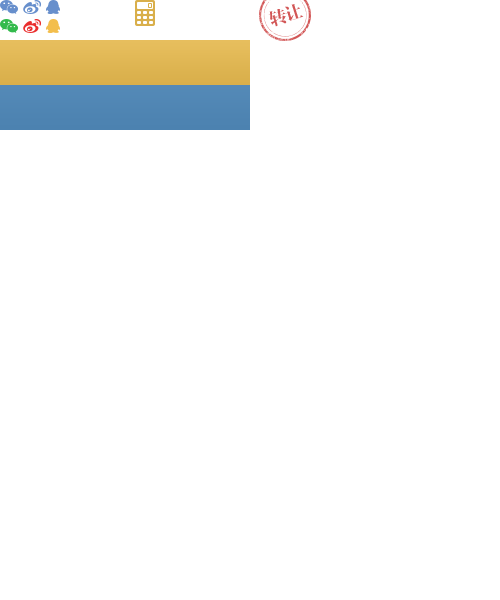
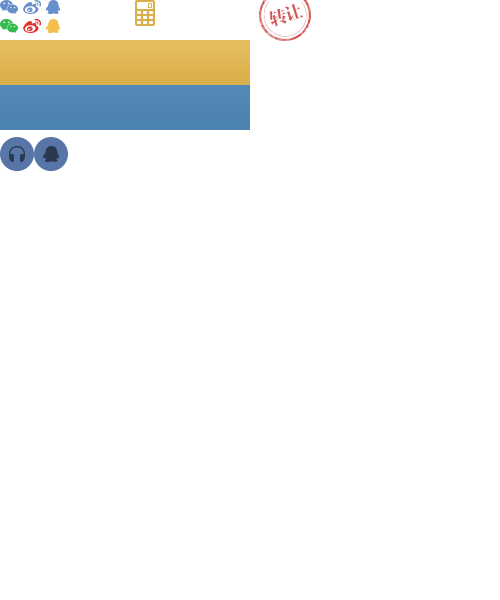
coding

Changed region(s): [[0.0, 0.21, 0.15, 0.3]]

diff --git a/index.html b/index.html
@@ -67,22 +67,22 @@
     <div class="advantage">
         <div class="advantage-wrap">
             <div class="advantage-b">
-                <div class="advantage-b-1 advantage-b-icon1"></div>
+                <div class="advantage-b-1"><img src="img/ad-1.jpg" /></div>
                 <div class="advantage-b-2">8%-12%高收益</div>
                 <div class="advantage-b-3">低门槛<br/>高收益<br/>年化收益最高达12%</div>
             </div>
             <div class="advantage-b">
-                <div class="advantage-b-1 advantage-b-icon2"></div>
+                <div class="advantage-b-1"><img src="img/ad-2.jpg" /></div>
                 <div class="advantage-b-2">100%本息保障</div>
                 <div class="advantage-b-3">25%风险备用金<br/>引入大型国企背景担保公司</div>
             </div>
             <div class="advantage-b">
-                <div class="advantage-b-1 advantage-b-icon3"></div>
+                <div class="advantage-b-1"><img src="img/ad-3.jpg" /></div>
                 <div class="advantage-b-2">风控体系</div>
                 <div class="advantage-b-3">实地考察、超值抵押<br/>发布项目小额短期<br/>平台交易实时监控</div>
             </div>
             <div class="advantage-b">
-                <div class="advantage-b-1 advantage-b-icon4"></div>
+                <div class="advantage-b-1"><img src="img/ad-4.jpg" /></div>
                 <div class="advantage-b-2">资金安全</div>
                 <div class="advantage-b-3">第三方支付平台全程托管<br/>资金全程监控</div>
             </div>
@@ -131,7 +131,7 @@
                     <span class="pro-li-3"><em class="pro-li-em1">12.6</em>&nbsp;%</span>
                     <span class="pro-li-7"><em class="pro-li-em3">750,000</em>&nbsp;元<br /><em class="pro-li-em2">645,000</em>&nbsp;元</span>
                     <span class="pro-li-3"><em class="pro-li-em2">36</em>&nbsp;个月</span>
-                    <span class="pro-li-5"></span>
+                    <span class="pro-li-5 progress" beginDate="1433043951709" percentage="30"></span>
                     <span class="pro-li-6"><a href="#" class="pro-go">立即投资</a></span>
                     <span class="pro-li-body-r"></span>
                 </li>
@@ -143,7 +143,7 @@
                     <span class="pro-li-3"><em class="pro-li-em1">11</em>&nbsp;%</span>
                     <span class="pro-li-7"><em class="pro-li-em3">120,000</em>&nbsp;元<br /><em class="pro-li-em2">115,000</em>&nbsp;元</span>
                     <span class="pro-li-3"><em class="pro-li-em2">3</em>&nbsp;个月</span>
-                    <span class="pro-li-5"></span>
+                    <span class="pro-li-5 progress" beginDate="1433043951709" percentage="40"></span>
                     <span class="pro-li-6"><a href="#" class="pro-go">立即投资</a></span>
                     <span class="pro-li-body-r"></span>
                 </li>
@@ -155,7 +155,7 @@
                     <span class="pro-li-3"><em class="pro-li-em1">10.8</em>&nbsp;%</span>
                     <span class="pro-li-7"><em class="pro-li-em3">250,000</em>&nbsp;元<br /><em class="pro-li-em2">225,000</em>&nbsp;元</span>
                     <span class="pro-li-3"><em class="pro-li-em2">2</em>&nbsp;个月</span>
-                    <span class="pro-li-5"></span>
+                    <span class="pro-li-5 progress" beginDate="1433043951709" percentage="50"></span>
                     <span class="pro-li-6"><a href="#" class="pro-go">立即投资</a></span>
                     <span class="pro-li-body-r"></span>
                 </li>
@@ -166,7 +166,7 @@
                     <span class="pro-li-3"><em class="pro-li-em1">13.2</em>&nbsp;%</span>
                     <span class="pro-li-4"><em class="pro-li-em2">107,900</em>&nbsp;元</span>
                     <span class="pro-li-3"><em class="pro-li-em2">24</em>&nbsp;个月</span>
-                    <span class="pro-li-5"></span>
+                    <span class="pro-li-5 progress" beginDate="1433043951709" percentage="60"></span>
                     <span class="pro-li-6"><a href="#" class="pro-go">立即投资</a></span>
                     <span class="pro-li-body-r"></span>
                 </li>
@@ -177,7 +177,7 @@
                     <span class="pro-li-3"><em class="pro-li-em1">12</em>&nbsp;%</span>
                     <span class="pro-li-4"><em class="pro-li-em2">2,000,000</em>&nbsp;元</span>
                     <span class="pro-li-3"><em class="pro-li-em2">6</em>&nbsp;个月</span>
-                    <span class="pro-li-5"></span>
+                    <span class="pro-li-5 progress" beginDate="1433043951709" percentage="70"></span>
                     <span class="pro-li-6"><a href="#" class="pro-done">已满标</a></span>
                     <span class="pro-li-body-r"></span>
                 </li>
@@ -188,7 +188,7 @@
                     <span class="pro-li-3"><em class="pro-li-em1">10.4</em>&nbsp;%</span>
                     <span class="pro-li-4"><em class="pro-li-em2">130,000</em>&nbsp;元</span>
                     <span class="pro-li-3"><em class="pro-li-em2">24</em>&nbsp;个月</span>
-                    <span class="pro-li-5"></span>
+                    <span class="pro-li-5 progress" beginDate="1433043951709" percentage="80"></span>
                     <span class="pro-li-6"><a href="#" class="pro-done">已满标</a></span>
                     <span class="pro-li-body-r"></span>
                 </li>
@@ -199,26 +199,83 @@
                     <span class="pro-li-3"><em class="pro-li-em1">8</em>&nbsp;%</span>
                     <span class="pro-li-4"><em class="pro-li-em2">94,000</em>&nbsp;元</span>
                     <span class="pro-li-3"><em class="pro-li-em2">10</em>&nbsp;个月</span>
-                    <span class="pro-li-5"></span>
+                    <span class="pro-li-5 progress" beginDate="1433043951709" percentage="10"></span>
                     <span class="pro-li-6"><a href="#" class="pro-done">已满标</a></span>
                     <span class="pro-li-body-r"></span>
                 </li>
-                <li class="pro-list-body pro-list-last">
+                <li class="pro-list-body">
                     <span class="pro-li-body-l"></span>
                     <span class="pro-li-1"><a href="#">微商进货经营</a></span>
                     <span class="pro-li-2"><a href="#"></a></span>
                     <span class="pro-li-3"><em class="pro-li-em1">5.6</em>&nbsp;%</span>
                     <span class="pro-li-4"><em class="pro-li-em2">5,000</em>&nbsp;元</span>
                     <span class="pro-li-3"><em class="pro-li-em2">0.5</em>&nbsp;个月</span>
-                    <span class="pro-li-5"></span>
+                    <span class="pro-li-5 progress" beginDate="1433043951709" percentage="90"></span>
                     <span class="pro-li-6"><a href="#" class="pro-done">已满标</a></span>
                     <span class="pro-li-body-r"></span>
                 </li>
-                
+                <li class="pro-list-body pro-list-last"><a href="#">查看更多投资项目</a></li>
             </ul>
         </div>
     </div>
-    <div class="partner"></div>
+    <div class="partner">
+        <div class="partner-wrap">
+            <div class="partner-title">合作伙伴</div>
+            <ul class="partner-content">
+                <li><a href="#"><img src="img/partner1.jpg"/></a></li>
+                <li><a href="#"><img src="img/partner2.jpg"/></a></li>
+                <li><a href="#"><img src="img/partner3.jpg"/></a></li>
+                <li><a href="#"><img src="img/partner4.jpg"/></a></li>
+                <li class="partner-li-last"><a href="#"><img src="img/partner5.jpg"/></a></li>
+            </ul>
+        </div>
+    </div>
+    <div class="foot-top">
+        <div class="foot-wrap">
+            <div class="foot-c1">
+                <ul>
+                    <li class="foot-c1-1"><span></span>400-966-0309</li>
+                    <li class="foot-c1-2"><span></span>在线客服</li>
+                    <li class="foot-c1-3">客服邮箱：<span>service@wodaibo.com</span></li>
+                    <li class="foot-c1-3">工作时间：<span>8:00 - 17:00</span></li>
+                </ul>
+            </div>
+            <div class="foot-c2">
+                <ul>
+                    <li class="foot-c2-1"><img src="img/erweima.jpg" />沃贷宝官方微博</li>
+                    <li class="foot-c2-2"><img src="img/erweima.jpg" />微信公众平台</li>
+                </ul>
+            </div>
+            <div class="foot-c3">
+                <ul class="foot-c3-u">
+                    <li class="foot-li-first"><a href="#">关于沃贷宝</a></li>
+                    <li><a href="#">了解我们</a></li>
+                    <li><a href="#">加入我们</a></li>
+                    <li><a href="#">联系我们</a></li>
+                </ul> 
+                <ul class="foot-c3-u1">
+                    <li class="foot-li-first"><a href="#">合作伙伴</a></li>
+                    <li><a href="#">法律合作</a></li>
+                    <li><a href="#">担保合作</a></li>
+                    <li><a href="#">支付合作</a></li>
+                </ul> 
+                <ul class="foot-c3-u1">
+                    <li class="foot-li-first"><a href="#">新手入门</a></li>
+                    <li><a href="#">免费注册</a></li>
+                    <li><a href="#">法律法规</a></li>
+                    <li><a href="#">帮助中心</a></li>
+                </ul> 
+            </div>
+        </div>
+    </div>
+    <div class="foot-bottom">
+        <div class="foot-wrap">
+            <div class="foot-bottom-l">版权所有&nbsp;©&nbsp;2014&nbsp;吉林省帮我贷信息技术有限公司&nbsp;备案号：吉B2-20150039</div>
+            <div class="foot-bottom-r">
+                <img src="img/renzheng.jpg" />
+            </div>
+        </div>
+    </div>
 </body>
 <script>
 var Progress = function(timeDisplay, endDate, percentage) {

diff --git a/css/index.css b/css/index.css
@@ -78,10 +78,6 @@ body { background:#f8f8f8; }
 .advantage-b-1 {width:80px; height:80px; margin-left:85px; margin-top:40px;}
 .advantage-b-2 {line-height:18px; font-size:18px; color:#222; text-align:center; margin-top:20px;}
 .advantage-b-3 {color:#aaa; font-size:12px; text-align:center; margin-top:10px; line-height:18px;}
-.advantage-b-icon1 {}
-.advantage-b-icon2 {}
-.advantage-b-icon3 {}
-.advantage-b-icon4 {}
 
 /* 投资项目列表 */
 .project { width:1000px; margin:30px auto; position: relative;}
@@ -99,7 +95,9 @@ body { background:#f8f8f8; }
 .pro-list-body span{ float: left; display: block; border-bottom: #eaeaea 1px solid; color: #aaa; font-size: 10px; color: #aaa; height: 66px; line-height: 66px;}
 .pro-list-body span.pro-li-body-l { width: 30px; border-bottom:none;} /* 控制左右两侧边距 */
 .pro-list-body span.pro-li-body-r { width: 30px; border-bottom:none;}
-.pro-list-last span{ border-bottom:none;}
+.pro-list-last { border-bottom:none; height:50px; line-height:50px; color:#aaa; font-size:14px; text-align:center;}
+.pro-list-last a {color:#aaa;}
+.pro-list-last a:hover {color:#777;}
 /* 单元格 */
 /* 单元格 - 项目名称 */
 .pro-li-1 { width: 240px; text-align: left; overflow: hidden;}
@@ -131,4 +129,38 @@ body { background:#f8f8f8; }
 .pro-done {background:#d9af4b;}
 .indicatorContainer { margin-top:7px; }
 
-.partner {}
+.partner {width:100%; background:#fff;}
+.partner-wrap {width:1000px; margin:0px auto;}
+.partner-title {height:40px; text-align:center; background:url("../img/line-partner.jpg") center bottom no-repeat; color:#777; font-size:20px; padding-top:30px;}
+.partner-content {width:1000px; height:80px; padding-top:20px; padding-bottom:30px; overflow:hidden;}
+.partner-content li {width:184px; height:80px; float:left; margin-right:20px;}
+.partner-content li.partner-li-last {margin-right:0px;}
+
+.foot-top {width:100%; height:136px; padding:20px 0px; background:#374760;}
+.foot-bottom {width:100%; height:45px; background:#2a3950;}
+.foot-wrap {width:1000px; margin:0px auto;}
+
+.foot-c1 {width:246px; height:136px; overflow:hidden; float:left; border-right:rgba(255,255,255,0.15) 1px solid; padding-right:30px;}
+.foot-c1-1 {color:#fff; font-size:24px; height:34px; line-height:34px; margin-bottom:10px;}
+.foot-c1-1 span {width:34px; height:34px; margin-right:10px; background:url("../img/icon.png") 0px -137px no-repeat; display:block; float:left;}
+.foot-c1-2 {color:#fff; font-size:14px; height:34px; line-height:34px; margin-bottom:10px;}
+.foot-c1-2 span {width:34px; height:34px; margin-right:10px; background:url("../img/icon.png") -34px -137px no-repeat; display:block; float:left;}
+.foot-c1-3 {font-size:12px; line-height:24px; color:#678fcc;}
+.foot-c1-3 span {color:#9bb4da;}
+
+.foot-c2 {width:220px; height:136px; overflow:hidden; float:left; border-right:rgba(255,255,255,0.15) 1px solid; padding:0px 50px;}
+.foot-c2 li {float:left; width:100px; font-size:12px; color:#9bb4da; text-align:center;}
+.foot-c2 li img {width:90; height:90; border:#fff 6px solid; margin-bottom:16px;}
+.foot-c2-1 {margin-right:20px;}
+
+.foot-c3 {float:right; height:136px; overflow:hidden; }
+.foot-c3 ul {float:right; margin-left:30px;}
+.foot-c3 ul li {text-align:right;}
+.foot-c3 ul li a {font-size:12px; line-height:28px; color:#9bb4da; text-align:right;}
+.foot-c3 ul li.foot-li-first a {color:#fff; font-size:16px; line-height:35px;}
+
+.foot-bottom-l {float:left; height:45px; line-height:45px; font-size:12px; color:#678fcc; width:600px;}
+.foot-bottom-r {float:right; padding-top:6px;}
+
+
+
